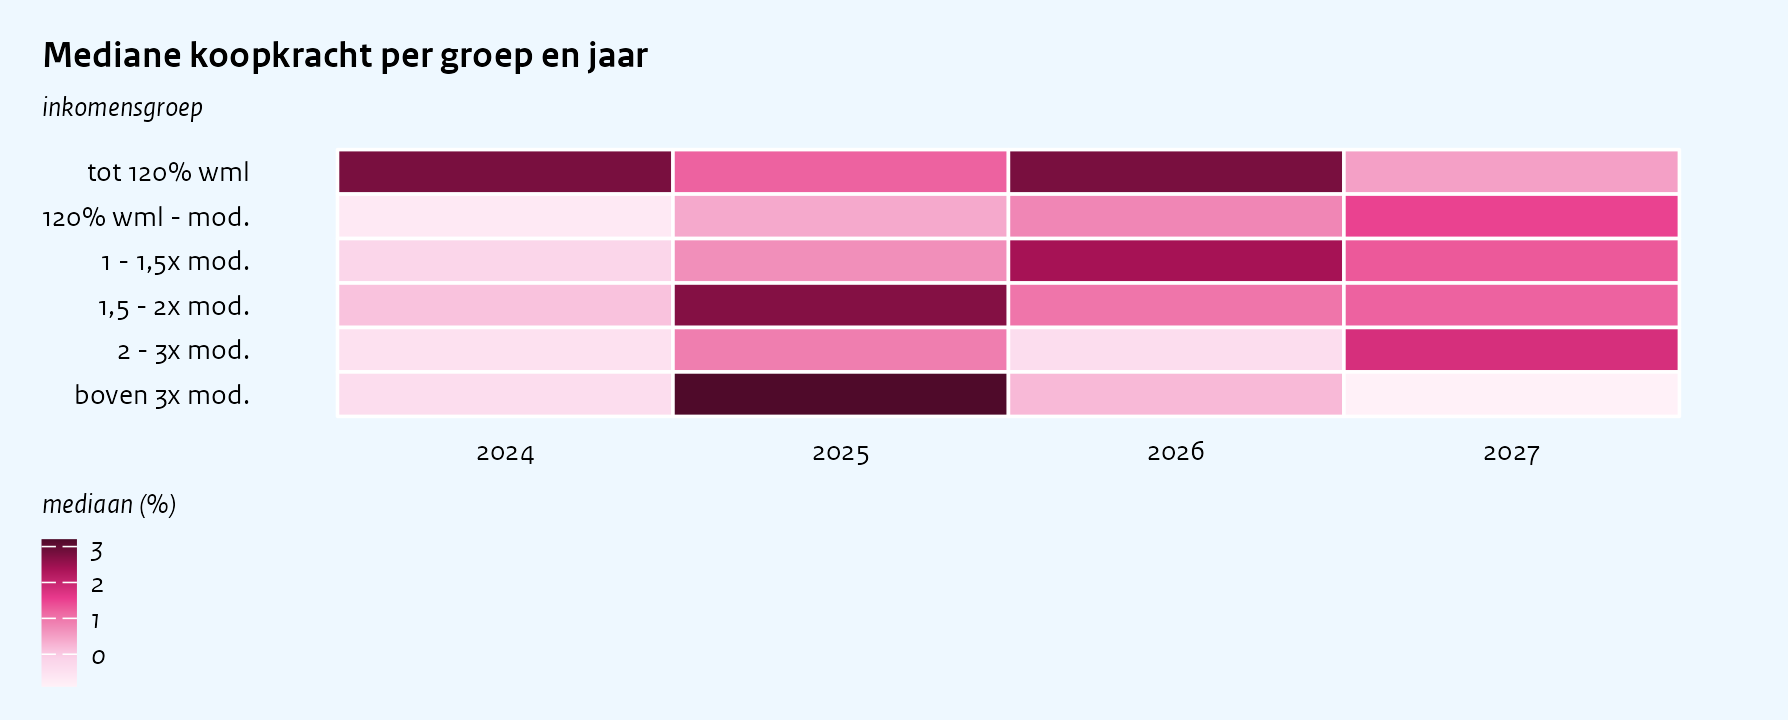
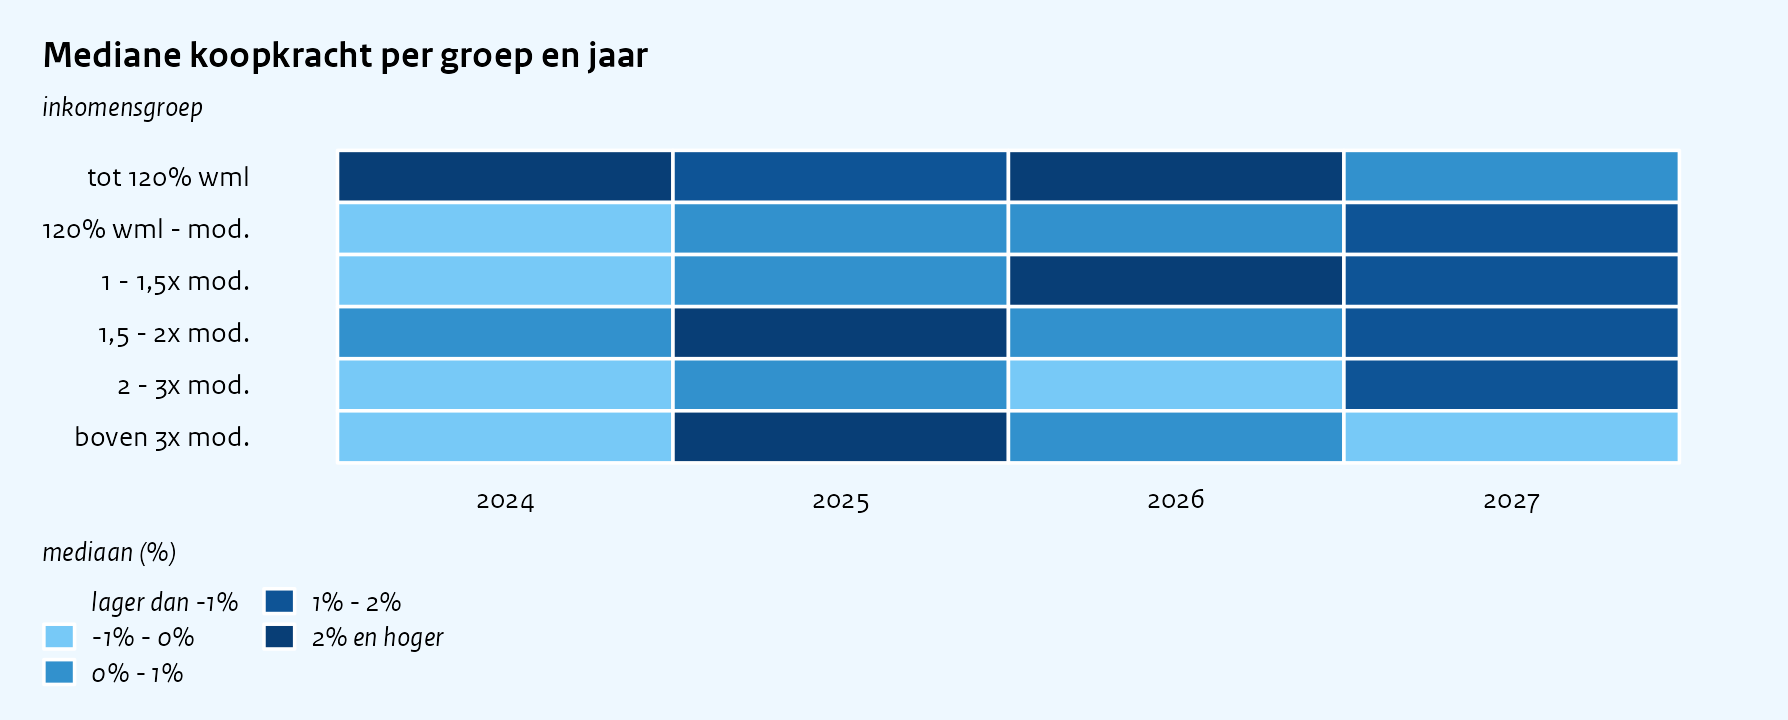
Add legend_ncol to the wrappers; bin the heatmap and scatter legends
The house legend is a single flush-left column, which runs past the
panel once a figure has many short keys -- as binned classes from
cpb_cut() do. Adds legend_ncol to all seven wrappers, passed to
guide_legend(ncol =).

reverse_legend and legend_ncol configure the same guide, so they are
resolved together in one helper. Appending a bare guides() call after
a wrapper would have silently dropped whichever of the two the
wrapper had set.

Switches the two continuous-gradient examples to binned classes:
gradients are hard to read values off, and the classed light-to-dark
blues are the house convention for ordered classes. The heatmap sets
drop = FALSE so an empty class still appears in the legend rather
than vanishing from the scale.

Claude-Session: https://claude.ai/code/session_018WwWHBX4wFHnvKsN8Vpe41

diff --git a/doc/ggcpb.md b/doc/ggcpb.md
@@ -12,11 +12,13 @@ two layers, and this vignette shows the basic idea of both:
   palettes, formatters, fonts): the pieces the wrappers are built from,
   for any figure without a wrapper.
 
-The other vignettes go deeper: [`vignette("chart-types")`](chart-types.md) for the default
-chart per type, [`vignette("layout")`](layout.md) for facets and grouped axes,
-[`vignette("annotation")`](annotation.md) for reference lines and forecast windows,
-[`vignette("boxplots")`](boxplots.md) for the box-plot styles, and [`vignette("maps")`](maps.md)
-for choropleths of the Netherlands.
+The other vignettes go deeper:
+[`vignette("chart-types")`](chart-types.md) for the default chart per
+type, [`vignette("layout")`](layout.md) for facets and grouped axes,
+[`vignette("annotation")`](annotation.md) for reference lines and
+forecast windows, [`vignette("boxplots")`](boxplots.md) for the
+box-plot styles, and [`vignette("maps")`](maps.md) for choropleths of
+the Netherlands.
 
 ``` r
 library(ggcpb)
@@ -81,23 +83,36 @@ reference line is a `geom_hline()`. More annotation patterns in
 
 Not every figure has a wrapper. For anything else you build from raw
 `ggplot2` and apply the same core pieces the wrappers use:
-`theme_cpb()`, a CPB colour scale (`scale_fill_cpb_c()` for a continuous
-gradient), and the Dutch-locale formatters. Two house conventions to
-carry over yourself: the value-axis unit goes in `subtitle` (never a
-rotated y-axis title), and the horizontal axis title sits at the bottom
-right.
+`theme_cpb()`, a CPB colour scale, and the Dutch-locale formatters. Two
+house conventions to carry over yourself: the value-axis unit goes in
+`subtitle` (never a rotated y-axis title), and the horizontal axis title
+sits at the bottom right.
+
+The fill here is *binned* rather than a continuous gradient: `cpb_cut()`
+turns the numeric values into classes with Dutch labels (“lager dan
+-1%”, “-1% - 0%”, …), which `scale_fill_cpb_d(palette = "blues")` then
+colours light-to-dark. Binned classes read off a choropleth or heatmap
+far more reliably than a gradient does. Because that produces a stack of
+short keys, `guide_legend(ncol = 2)` lays them out in two columns
+instead of one tall one – the wrappers expose the same thing as
+`legend_ncol`. `drop = FALSE` keeps every class in the legend even when
+no observation falls in it, so the reader sees the full scale rather
+than silently losing a class.
 
 ``` r
 raster <- expand.grid(groep = factor(groepen, levels = rev(groepen)),
                       jaar  = 2024:2027) |>
   mutate(mediaan = round(rnorm(n(), 0.5, 1), 1))
 
-ggplot(raster, aes(jaar, groep, fill = mediaan)) +
+ggplot(raster, aes(jaar, groep,
+                   fill = cpb_cut(mediaan, c(-Inf, -1, 0, 1, 2, Inf),
+                                  labeller = label_pct_nl()))) +
   geom_tile(colour = "white", linewidth = 0.4) +
   labs(title = "Mediane koopkracht per groep en jaar",
        subtitle = "inkomensgroep",
        x = NULL, y = NULL, fill = "mediaan (%)") +
-  scale_fill_cpb_c() +
+  scale_fill_cpb_d(palette = "blues", drop = FALSE) +
+  guides(fill = guide_legend(ncol = 2)) +
   theme_cpb(grid = "none", ticks = FALSE)
 ```
 

diff --git a/doc/layout.md b/doc/layout.md
@@ -9,11 +9,11 @@ library(tidyr)
 set.seed(42)
 ```
 
-The chart types in [`vignette("chart-types")`](chart-types.md) each show a single chart.
-This vignette covers the ways CPB figures arrange *more than one chart’s
-worth* of information on the page: small-multiple facets, a two-level
-category axis on one shared value axis, and the vertically grouped
-boxplot layout.
+The chart types in [`vignette("chart-types")`](chart-types.md) each
+show a single chart. This vignette covers the ways CPB figures arrange
+*more than one chart’s worth* of information on the page: small-multiple
+facets, a two-level category axis on one shared value axis, and the
+vertically grouped boxplot layout.
 
 # Facets
 
@@ -84,8 +84,9 @@ belong on one shared scale.
 distributional layout: categories organised under bold group headings,
 all sharing one value axis. A group whose only category carries the same
 name (like a “Totaal” row) collapses onto its heading row. Combine with
-`box_style = "james"` (see [`vignette("boxplots")`](boxplots.md) for the styles) and a
-*vector* `fill_colour` – one colour per row – to colour each group:
+`box_style = "james"` (see [`vignette("boxplots")`](boxplots.md) for
+the styles) and a *vector* `fill_colour` – one colour per row – to
+colour each group:
 
 ``` r
 groepen <- c("tot 120% wml", "120% wml - mod.", "1 - 1,5x mod.",

diff --git a/doc/chart-types.md b/doc/chart-types.md
@@ -362,14 +362,24 @@ without end caps.
 
 `cpb_scatter()` draws points in the house style. Without a `colour`
 column the points are CPB blue; a *numeric* `colour` column gets the
-continuous CPB gradient, a discrete one the discrete palette:
+continuous CPB gradient, a discrete one the discrete palette.
+
+Binning a numeric variable with `cpb_cut()` takes the second route: the
+classes get the light-to-dark `"blues"` palette and a legend of discrete
+keys, which is easier to read off a dense scatter than a gradient.
+`legend_ncol = 2` lays those keys out in two columns rather than one
+tall column:
 
 ``` r
 hh <- tibble(inkomen = round(rlnorm(400, log(2500), 0.35))) |>
   mutate(energierekening = round(90 + 0.04 * inkomen + rnorm(n(), 0, 35)),
          koopkracht      = round(rnorm(n(), (inkomen - 2500) / 1500, 2), 1))
 
-cpb_scatter(hh, x = inkomen, y = energierekening, colour = koopkracht,
+cpb_scatter(hh, x = inkomen, y = energierekening,
+  colour = cpb_cut(koopkracht, c(-Inf, -2, -1, 0, 1, 2, Inf),
+                   labeller = label_pct_nl()),
+  palette   = "blues",
+  legend_ncol = 2,
   title = "Energierekening naar inkomen",
   ylab  = "energierekening (euro per maand)",
   xlab  = "besteedbaar inkomen (euro per maand)",

diff --git a/doc/annotation.md b/doc/annotation.md
@@ -9,11 +9,12 @@ library(tidyr)
 set.seed(42)
 ```
 
-The chart types in [`vignette("chart-types")`](chart-types.md) are the building blocks;
-this vignette covers annotating them – the built-in forecast window and
-uncertainty band, reference lines and text notes, shaded regions, and
-composing an extra series onto a chart. All of it works because every
-wrapper returns a real `ggplot`: annotations are ordinary `+` layers.
+The chart types in [`vignette("chart-types")`](chart-types.md) are the
+building blocks; this vignette covers annotating them – the built-in
+forecast window and uncertainty band, reference lines and text notes,
+shaded regions, and composing an extra series onto a chart. All of it
+works because every wrapper returns a real `ggplot`: annotations are
+ordinary `+` layers.
 
 Two data sets used below:
 
@@ -155,4 +156,5 @@ second value-axis scale: use the wrapper’s `value_breaks`,
 For building figures entirely from the composable core (no wrappers at
 all), see [`vignette("ggcpb")`](ggcpb.md).
 
-Export at the CPB page sizes is covered in [`vignette("ggcpb")`](ggcpb.md).
+Export at the CPB page sizes is covered in
+[`vignette("ggcpb")`](ggcpb.md).
